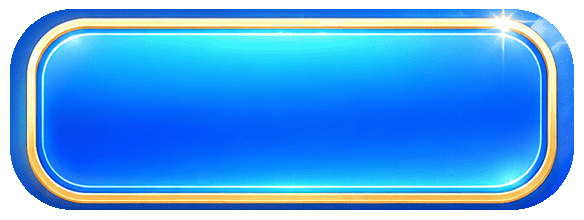
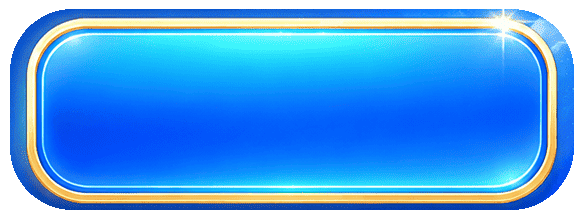
feat: settling toast + compressed images
- 進入遊戲前若籌碼尚未結算，顯示「籌碼結算中」toast 阻擋導航
- 壓縮所有新增/更換的 PNG 素材（頭像、場景圖、按鈕等）

diff --git a/frontend/src/pages/LobbyPage.jsx b/frontend/src/pages/LobbyPage.jsx
@@ -94,6 +94,8 @@ function LobbyPage({ auth, isActive = true, onGoLogin, onCenterLogoClick, hasEnt
   })
 
   const [balanceReady, setBalanceReady] = useState(false)
+  const [settlingMsg, setSettlingMsg] = useState(false)
+  const settlingTimerRef = useRef(null)
 
   useEffect(() => {
     if (!auth.isAuthenticated || !isActive) {
@@ -131,6 +133,12 @@ function LobbyPage({ auth, isActive = true, onGoLogin, onCenterLogoClick, hasEnt
     }
     if (!auth.isAuthenticated) {
       openAuthPrompt('game')
+      return
+    }
+    if (auth.isAuthenticated && !balanceReady) {
+      clearTimeout(settlingTimerRef.current)
+      setSettlingMsg(true)
+      settlingTimerRef.current = setTimeout(() => setSettlingMsg(false), 3000)
       return
     }
     if (auth.user?.is_guest && (auth.user?.balance ?? 0) === 0) {
@@ -337,6 +345,10 @@ function LobbyPage({ auth, isActive = true, onGoLogin, onCenterLogoClick, hasEnt
             </div>
           </div>
         </div>
+      )}
+
+      {settlingMsg && (
+        <div className="settling-toast">籌碼結算中，請稍候再進入遊戲</div>
       )}
 
       <LogoutConfirmModal

diff --git a/frontend/src/styles.css b/frontend/src/styles.css
@@ -2850,6 +2850,7 @@ button.is-pressing {
   background:
     radial-gradient(circle at 50% 34%, rgba(246, 199, 90, 0.2), transparent 26%),
     linear-gradient(180deg, rgba(7, 7, 10, 0.5), rgba(7, 7, 10, 0.8) 42%, rgba(7, 7, 10, 0.94) 100%);
+  border-radius: 22px;  
 }
 
 .maintenance-overlay-image-wrap {
@@ -7080,6 +7081,29 @@ button.is-pressing {
   background-repeat: no-repeat;
   background-position: center;
   margin-bottom: 112px;
+}
+
+.settling-toast {
+  position: fixed;
+  bottom: 80px;
+  left: 50%;
+  transform: translateX(-50%);
+  background: rgba(20, 20, 35, 0.92);
+  color: #e2ce87;
+  border: 1px solid rgba(226, 206, 135, 0.35);
+  border-radius: 999px;
+  padding: 10px 22px;
+  font-size: 14px;
+  font-weight: 600;
+  white-space: nowrap;
+  z-index: 9999;
+  pointer-events: none;
+  animation: toastFadeIn 0.2s ease;
+}
+
+@keyframes toastFadeIn {
+  from { opacity: 0; transform: translateX(-50%) translateY(8px); }
+  to   { opacity: 1; transform: translateX(-50%) translateY(0); }
 }
 
 /*  POKER TABLE PAGE*/
